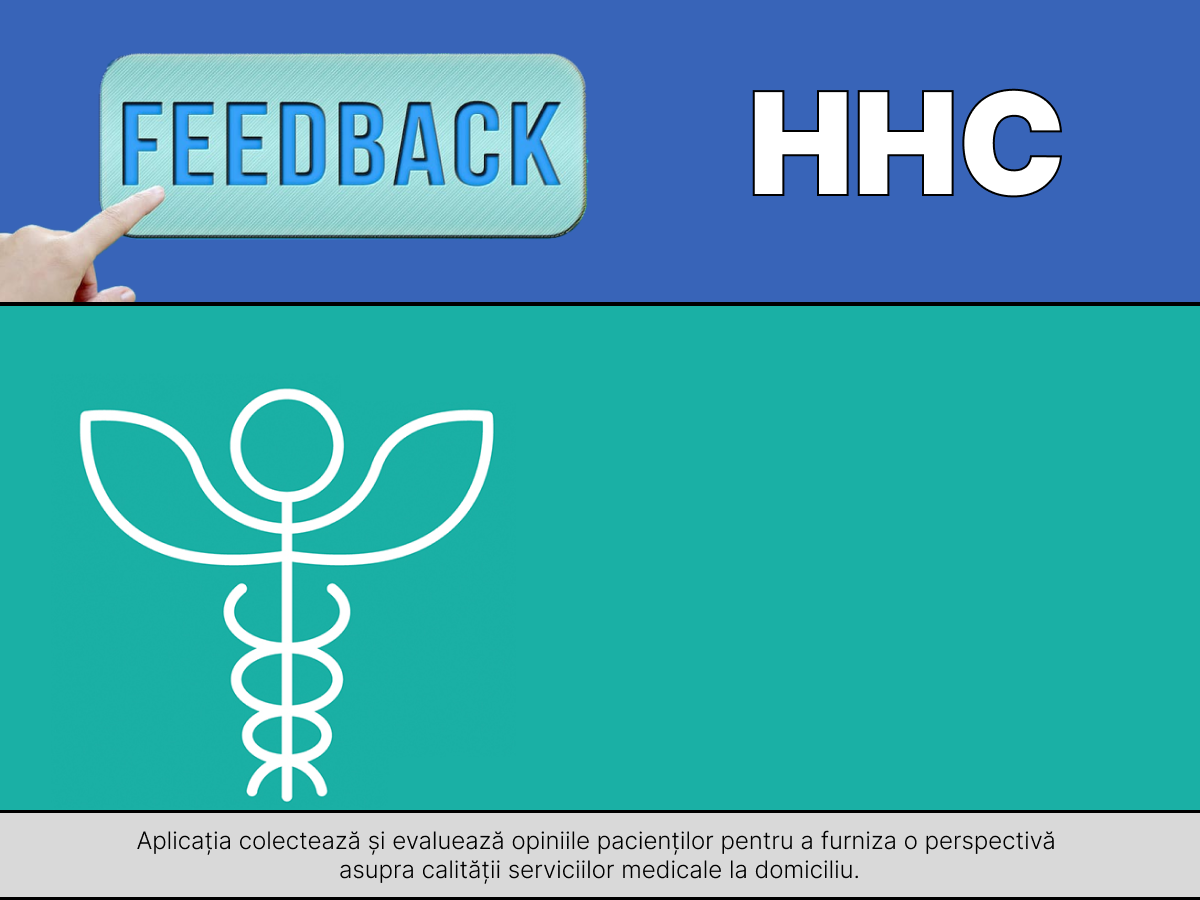
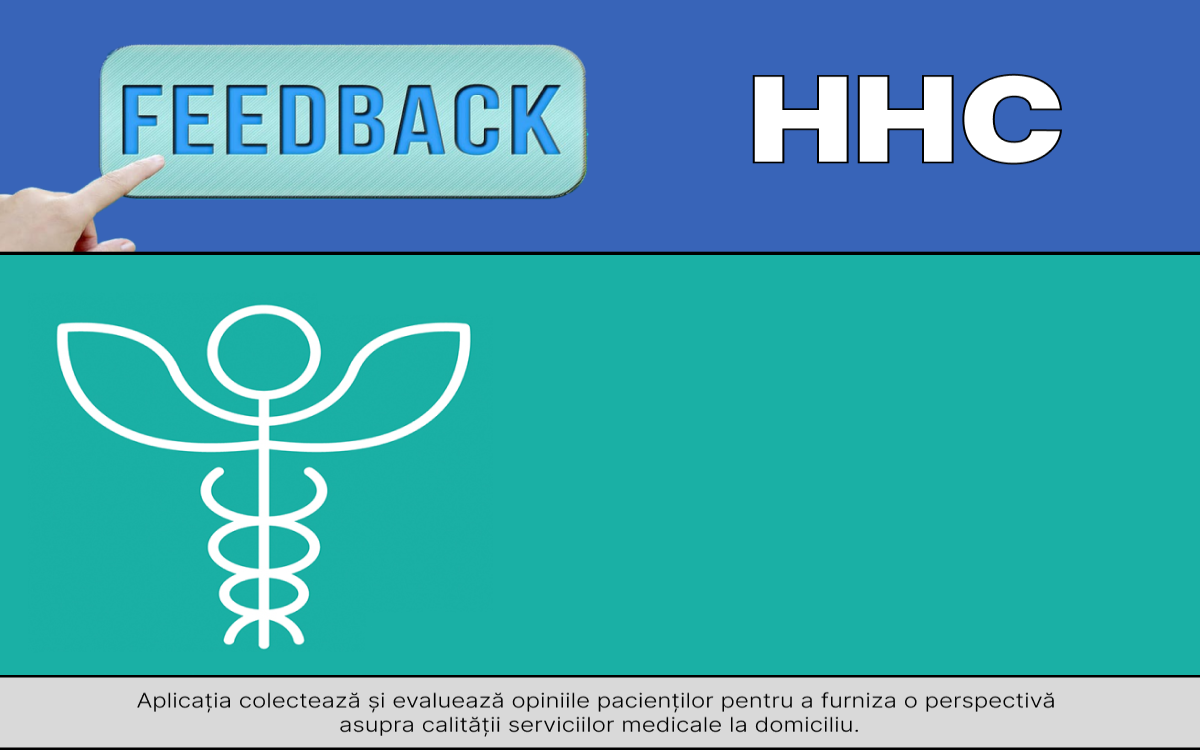
Resize App

Changed region(s): [[0.0308, 0.3987, 0.4317, 0.8893]]

diff --git a/interface/view_data_panel.py b/interface/view_data_panel.py
@@ -44,15 +44,15 @@ class ViewData:
                                 text="Selectează fișierul cu date:",
                                 font=("Arial", 16, "bold"), anchor='nw')
 
-        self.canvas.create_text(825, 115,
+        self.canvas.create_text(825, 20,
                                 text="Încearcă o predicție",
                                 font=("Arial", 16, "bold"), anchor='nw')
 
-        self.canvas.create_text(20, 800,
+        self.canvas.create_text(20, 680,
                                 text="Vizualizează grafice",
-                                font=("Arial", 16, "bold"), anchor='nw')
+                                font=("Arial", 12, "bold"), anchor='nw')
 
-        self.canvas.create_text(225, 804,
+        self.canvas.create_text(175, 681,
                                 text="(din primul csv)",
                                 font=("Arial", 10), anchor='nw')
 
@@ -60,59 +60,59 @@ class ViewData:
                                                        text="HH_Provider_Jan2024.csv",
                                                        font=("Arial", 12, "bold"), anchor='nw')
 
-        self.text_label_preproc = self.canvas.create_text(20, 460,
+        self.text_label_preproc = self.canvas.create_text(20, 400,
                                                           text="Preprocessing_HH.csv",
                                                           font=("Arial", 12, "bold"), anchor='nw')
 
-        self.text_label_col1 = self.canvas.create_text(760, 160,
+        self.text_label_col1 = self.canvas.create_text(760, 80,
                                                        text="- How often patients got better \n  at walking or moving around (%):",
                                                        font=("Arial", 13), anchor='nw')
         entry_x = 1050
-        entry_y = 165
+        entry_y = 85
         self.entry_var1 = tk.StringVar()
         entry_widget = tk.Entry(self.canvas, textvariable=self.entry_var1, width=6, font=("Arial", 13), validate="key",
                                 validatecommand=(self.canvas.register(self.validate_entry), "%P"))
         entry_widget.place(x=entry_x, y=entry_y)
 
-        self.text_label_col2 = self.canvas.create_text(760, 215,
+        self.text_label_col2 = self.canvas.create_text(760, 135,
                                                        text="- How often patients got better \n  at getting in and out of bed (%):",
                                                        font=("Arial", 13), anchor='nw')
 
         entry_x = 1050
-        entry_y = 220
+        entry_y = 140
         self.entry_var2 = tk.StringVar()
         entry_widget = tk.Entry(self.canvas, textvariable=self.entry_var2, width=6, font=("Arial", 13), validate="key",
                                 validatecommand=(self.canvas.register(self.validate_entry), "%P"))
         entry_widget.place(x=entry_x, y=entry_y)
 
-        self.text_label_col3 = self.canvas.create_text(760, 265,
+        self.text_label_col3 = self.canvas.create_text(760, 190,
                                                        text="- How often patients got better \n  at bathing (%):",
                                                        font=("Arial", 13), anchor='nw')
 
         entry_x = 1050
-        entry_y = 270
+        entry_y = 195
         self.entry_var3 = tk.StringVar()
         entry_widget = tk.Entry(self.canvas, textvariable=self.entry_var3, width=6, font=("Arial", 13), validate="key",
                                 validatecommand=(self.canvas.register(self.validate_entry), "%P"))
         entry_widget.place(x=entry_x, y=entry_y)
 
-        self.text_label_col4 = self.canvas.create_text(760, 320,
+        self.text_label_col4 = self.canvas.create_text(760, 245,
                                                        text="- How often patients' breathing \n  improved (%):",
                                                        font=("Arial", 13), anchor='nw')
 
         entry_x = 1050
-        entry_y = 325
+        entry_y = 250
         self.entry_var4 = tk.StringVar()
         entry_widget = tk.Entry(self.canvas, textvariable=self.entry_var4, width=6, font=("Arial", 13), validate="key",
                                 validatecommand=(self.canvas.register(self.validate_entry), "%P"))
         entry_widget.place(x=entry_x, y=entry_y)
 
-        self.text_label_col5 = self.canvas.create_text(760, 375,
+        self.text_label_col5 = self.canvas.create_text(760, 300,
                                                        text="- How often patients got better \n  at taking their drugs correctly by \n  mouth (%):",
                                                        font=("Arial", 13), anchor='nw')
 
         entry_x = 1050
-        entry_y = 380
+        entry_y = 305
         self.entry_var5 = tk.StringVar()
         self.entry_widget = tk.Entry(self.canvas, textvariable=self.entry_var5, width=6, font=("Arial", 13),
                                      validate="key",
@@ -142,27 +142,27 @@ class ViewData:
 
         button3 = tk.Button(self.window, text="Medii și mediane",
                             command=lambda: self.on_button_average_medians(),
-                            width=button_width, height=button_height, borderwidth=1, highlightthickness=0,
+                            width=button_width, height=1, borderwidth=1, highlightthickness=0,
                             font=button_font, bg="#D9D9D9")
-        self.canvas.create_window(20, 835, window=button3, anchor='nw')
+        self.canvas.create_window(20, 710, window=button3, anchor='nw')
 
         button4 = tk.Button(self.window, text="Nr. inst. per clase",
                             command=lambda: self.on_button_nr_inst_classes(),
-                            width=button_width, height=button_height, borderwidth=1, highlightthickness=0,
+                            width=button_width, height=1, borderwidth=1, highlightthickness=0,
                             font=button_font, bg="#D9D9D9")
-        self.canvas.create_window(200, 835, window=button4, anchor='nw')
+        self.canvas.create_window(200, 710, window=button4, anchor='nw')
 
         button5 = tk.Button(self.window, text="Statistici algoritmi\nde clasificare",
                             command=lambda: self.on_button_stats(),
                             width=18, height=3, borderwidth=1, highlightthickness=0,
                             font=button_font, bg="#D9D9D9")
-        self.canvas.create_window(535, 816, window=button5, anchor='nw')
+        self.canvas.create_window(535, 680, window=button5, anchor='nw')
 
         button6 = tk.Button(self.window, text="Start",
                             command=lambda: self.on_button_click(),
                             width=10, height=2, borderwidth=1, highlightthickness=0,
                             font=button_font, bg="#D9D9D9")
-        self.canvas.create_window(900, 440, window=button6, anchor='nw')
+        self.canvas.create_window(900, 380, window=button6, anchor='nw')
 
     def predictions_labels(self, id3_prediction, RN_continuous_prediction, RN_multiclass_prediction, bayes_prediction,
                            linear_regression_prediction, random_forest_prediction, ada_boost_prediction):
@@ -171,42 +171,42 @@ class ViewData:
             self.label_algs_text = tk.Label(self.canvas,
                                             text="Predicții pentru target-ul\n'Quality of patient care star rating':",
                                             font=("Arial", 13, "bold"))
-            self.canvas.create_window(800, 520, window=self.label_algs_text, anchor='nw')
+            self.canvas.create_window(800, 450, window=self.label_algs_text, anchor='nw')
         else:
             self.label_algs_text = tk.Label(self.canvas,
                                             text="Predicții pentru target-ul\n'HHCAHPS Survey Summary Star Rating':",
                                             font=("Arial", 13, "bold"))
-            self.canvas.create_window(770, 520, window=self.label_algs_text, anchor='nw')
+            self.canvas.create_window(770, 450, window=self.label_algs_text, anchor='nw')
 
         self.id3_label = tk.Label(self.canvas, text=f"- Algoritmul ID3: {id3_prediction}", font=("Arial", 13))
-        self.canvas.create_window(760, 580, window=self.id3_label, anchor='nw')
+        self.canvas.create_window(760, 510, window=self.id3_label, anchor='nw')
 
         self.rn_continuous_label = tk.Label(self.canvas,
                                             text=f"- Rețele Neuronale (valori continue): {RN_continuous_prediction}",
                                             font=("Arial", 13))
-        self.canvas.create_window(760, 605, window=self.rn_continuous_label, anchor='nw')
+        self.canvas.create_window(760, 535, window=self.rn_continuous_label, anchor='nw')
 
         self.rn_multiclass_label = tk.Label(self.canvas,
                                             text=f"- Rețele Neuronale (clase multiple): {RN_multiclass_prediction}",
                                             font=("Arial", 13))
-        self.canvas.create_window(760, 630, window=self.rn_multiclass_label, anchor='nw')
+        self.canvas.create_window(760, 560, window=self.rn_multiclass_label, anchor='nw')
 
         self.bayes_label = tk.Label(self.canvas, text=f"- Algoritmul Bayes Naiv: {bayes_prediction}",
                                     font=("Arial", 13))
-        self.canvas.create_window(760, 655, window=self.bayes_label, anchor='nw')
+        self.canvas.create_window(760, 585, window=self.bayes_label, anchor='nw')
 
         self.linear_regression_label = tk.Label(self.canvas,
                                                 text=f"- Regresia Liniară: {linear_regression_prediction}",
                                                 font=("Arial", 13))
-        self.canvas.create_window(760, 680, window=self.linear_regression_label, anchor='nw')
+        self.canvas.create_window(760, 610, window=self.linear_regression_label, anchor='nw')
 
         self.rf_label = tk.Label(self.canvas, text=f"- Random Forest: {random_forest_prediction}",
                                  font=("Arial", 13))
-        self.canvas.create_window(760, 705, window=self.rf_label, anchor='nw')
+        self.canvas.create_window(760, 635, window=self.rf_label, anchor='nw')
 
         self.ada_boost_label = tk.Label(self.canvas, text=f"- Algoritmul AdaBoost: {ada_boost_prediction}",
                                         font=("Arial", 13))
-        self.canvas.create_window(760, 730, window=self.ada_boost_label, anchor='nw')
+        self.canvas.create_window(760, 660, window=self.ada_boost_label, anchor='nw')
 
     def on_button_click(self):
 
@@ -280,7 +280,7 @@ class ViewData:
         self.entry_widget = tk.Entry(self.canvas, textvariable=self.entry_var5, width=6, font=("Arial", 13),
                                      validate="key",
                                      validatecommand=(self.canvas.register(self.validate_entry), "%P"))
-        self.entry_widget.place(x=1050, y=380)
+        self.entry_widget.place(x=1050, y=305)
 
     def on_button_data2(self):
         if self.id3_label is not None:
@@ -300,13 +300,13 @@ class ViewData:
         self.canvas.itemconfig(self.text_label_preproc, text="Preprocessing_HHCAHPS.csv")
         self.diagrams = "diagrams2"
         self.canvas.itemconfig(self.text_label_col1,
-                               text="- Star Rating for health team gave\n  care in a professional way:")
+                               text="- Star Rating for health team gave\n  care in a professional way (1-5):")
         self.canvas.itemconfig(self.text_label_col2,
-                               text="- Star Rating for health team \n  communicated well with them:")
+                               text="- Star Rating for health team \n  communicated well with them (1-5):")
         self.canvas.itemconfig(self.text_label_col3,
-                               text="- Star Rating team discussed\n  medicines, pain, and home safety:")
+                               text="- Star Rating team discussed medicines,\n  pain, and home safety (1-5):")
         self.canvas.itemconfig(self.text_label_col4,
-                               text="- Star Rating for how patients rated \n  overall care from agency:")
+                               text="- Star Rating for how patients rated \n  overall care from agency (1-5):")
         self.canvas.itemconfig(self.text_label_col5, text="")
         self.entry_widget.destroy()
 
@@ -319,9 +319,15 @@ class ViewData:
         images = [f"../{self.diagrams}/accuracy_comparison.png", f"../{self.diagrams}/roc_neural.png",
                   f"../{self.diagrams}/accuracy_test.png", f"../{self.diagrams}/mean_error.png"]
 
+        # Set the desired smaller size
+        new_size = (500, 350)  # Adjust the dimensions according to your preference
+
         for i, image_file in enumerate(images):
             file_path = os.path.join("images", image_file)
             image = Image.open(file_path)
+
+            # Resize the image
+            image = image.resize(new_size, Image.LANCZOS)
 
             max_width = max(max_width, image.width)
             max_height = max(max_height, image.height)
@@ -353,7 +359,7 @@ class ViewData:
         new_window.title("Medii și mediane")
 
         image = Image.open(file_path)
-        resized_image = image.resize((1200, 900), PIL.Image.Resampling.LANCZOS)
+        resized_image = image.resize((1000, 700), PIL.Image.Resampling.LANCZOS)
 
         photo = ImageTk.PhotoImage(resized_image)
 

diff --git a/interface/csv_panel.py b/interface/csv_panel.py
@@ -7,7 +7,6 @@ import csv
 class CSVViewer:
     def __init__(self, root):
         self.root = root
-        self.root.title("CSV Viewer")
         self.frame1 = None
         self.frame2 = None
 
@@ -42,7 +41,7 @@ class CSVViewer:
 
     def setup_csv_section(self, path):
         self.frame1 = ttk.Frame(self.root)
-        self.frame1.place(x=20, y=150, width=700, height=300)
+        self.frame1.place(x=20, y=150, width=700, height=250)
         self.frame1.pack_propagate(False)
 
         tree = ttk.Treeview(self.frame1, show="headings")
@@ -53,13 +52,13 @@ class CSVViewer:
         vsb.pack(side='right', fill='y')
         hsb.pack(side='bottom', fill='x')
 
-        tree.place(x=0, y=0, width=700, height=300)
+        tree.place(x=0, y=0, width=700, height=250)
 
         self.display_csv_data(tree, path)
 
     def setup_csv_preprocessing_section(self, path):
         self.frame2 = ttk.Frame(self.root)
-        self.frame2.place(x=20, y=490, width=700, height=300)
+        self.frame2.place(x=20, y=430, width=700, height=250)
         self.frame2.pack_propagate(False)
 
         tree = ttk.Treeview(self.frame2, show="headings")
@@ -70,7 +69,7 @@ class CSVViewer:
         vsb.pack(side='right', fill='y')
         hsb.pack(side='bottom', fill='x')
 
-        tree.place(x=0, y=0, width=700, height=300)
+        tree.place(x=0, y=0, width=700, height=250)
 
         self.display_csv_data(tree, path)
 

diff --git a/interface/title_screen.py b/interface/title_screen.py
@@ -14,7 +14,7 @@ class TitleScreen:
         self.setup_window()
 
     def setup_window(self):
-        self.window.geometry("1200x900")
+        self.window.geometry("1200x750")
         self.window.title("AI Project")
         self.window.resizable(False, False)
 
@@ -32,13 +32,13 @@ class TitleScreen:
         button_width = 20
         button_height = 3
 
-        button_font = ("Arial", 14)
+        button_font = ("Arial", 16)
 
         button = tk.Button(self.window, text="Începe",
                            command=lambda: self.on_button_click(),
                            width=button_width, height=button_height, borderwidth=2, highlightthickness=0,
                            font=button_font)
-        self.title_screen_canvas.create_window(800, 450, window=button, anchor='nw')
+        self.title_screen_canvas.create_window(800, 400, window=button, anchor='nw')
 
     def on_button_click(self):
         self.title_screen_canvas.destroy()
